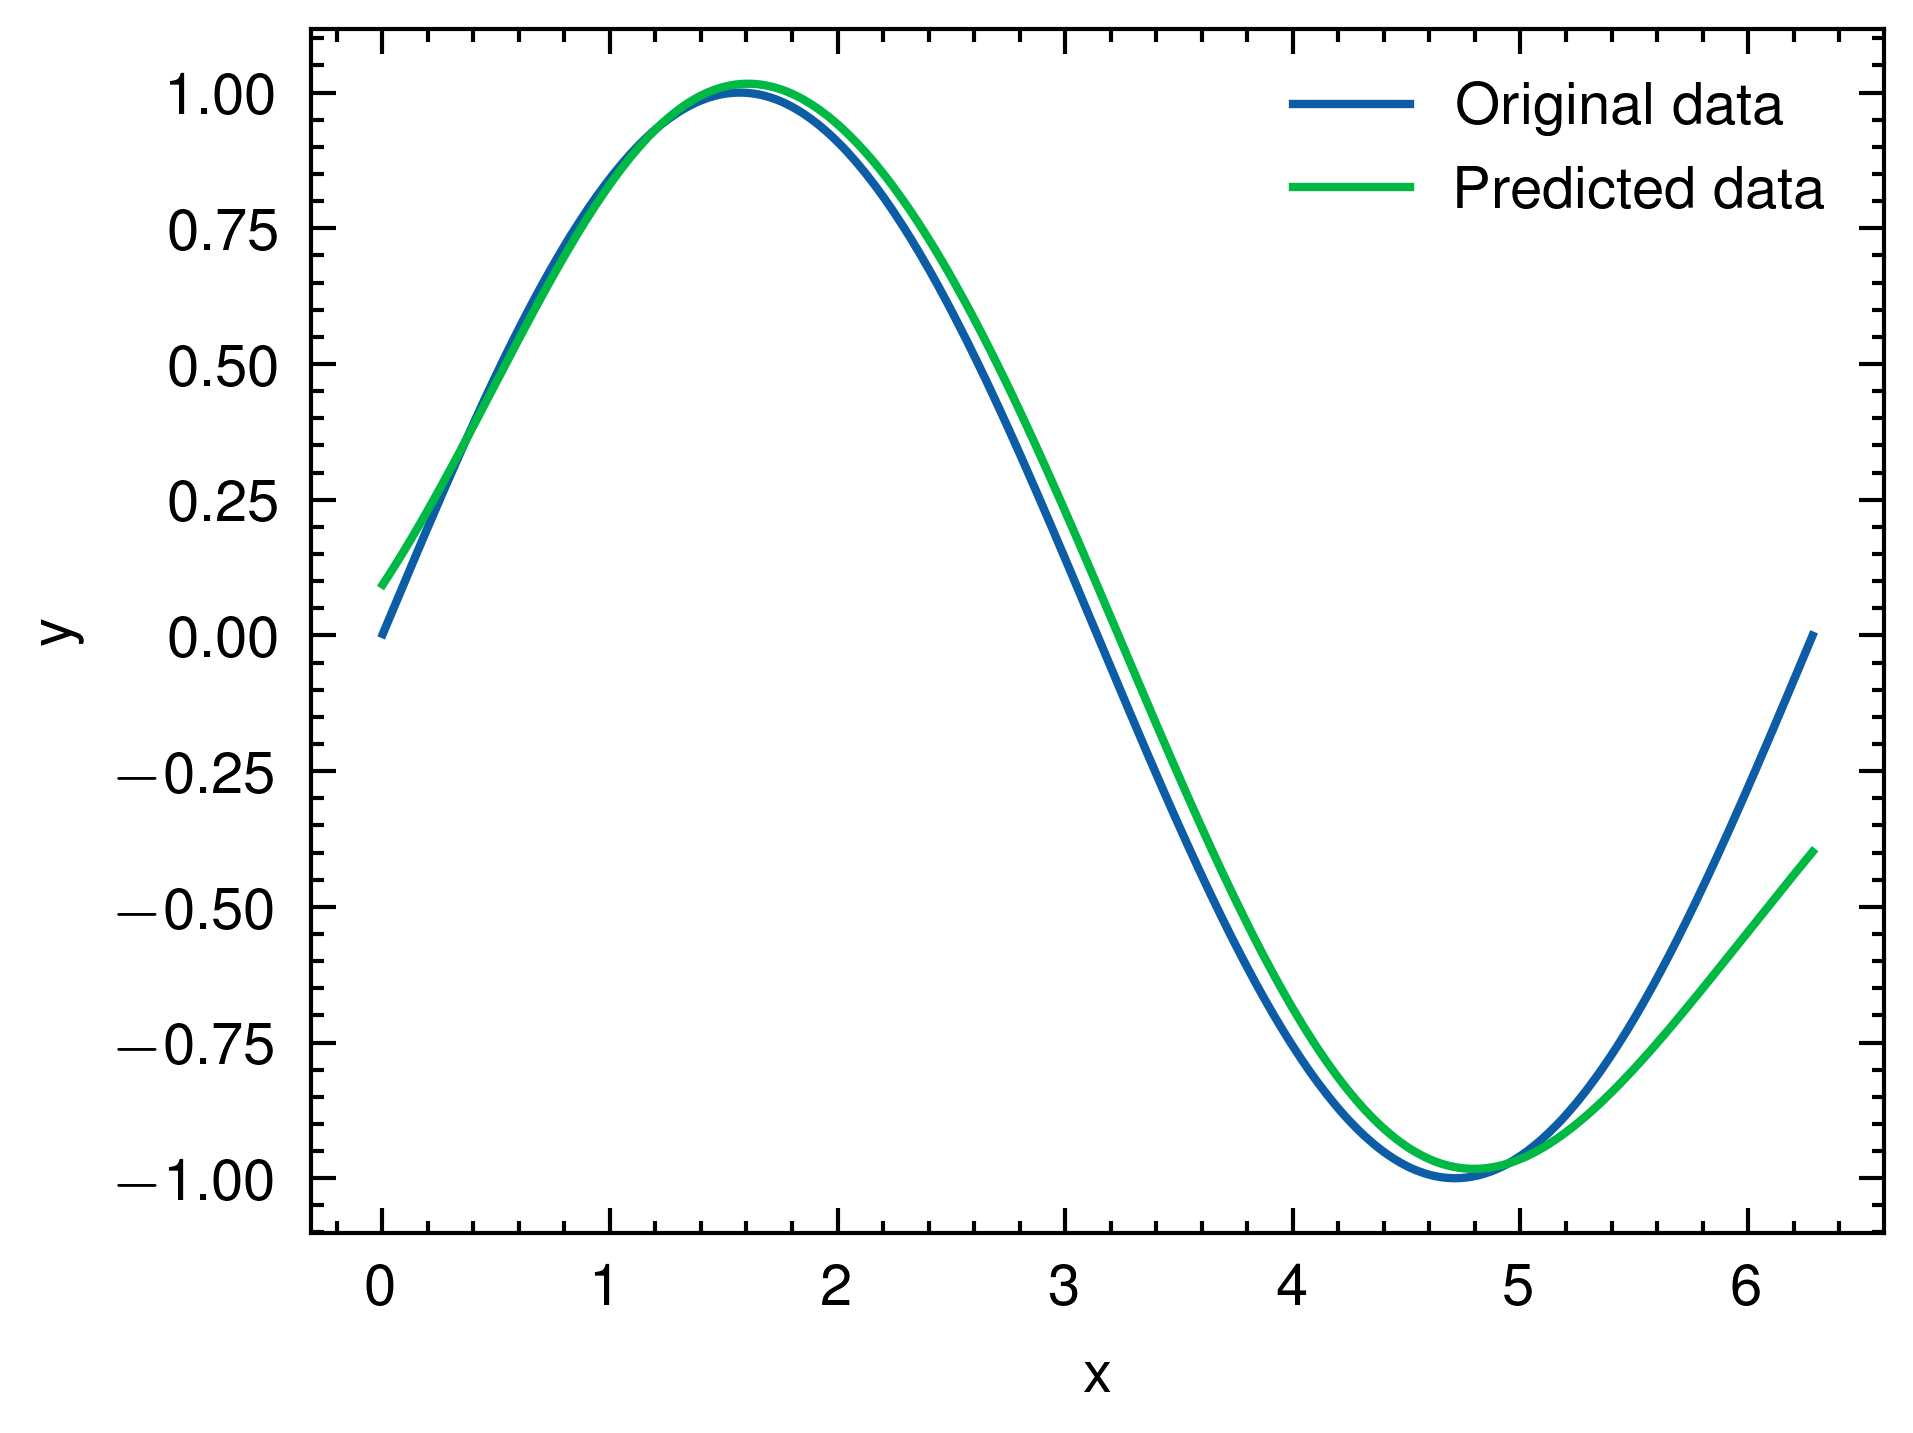
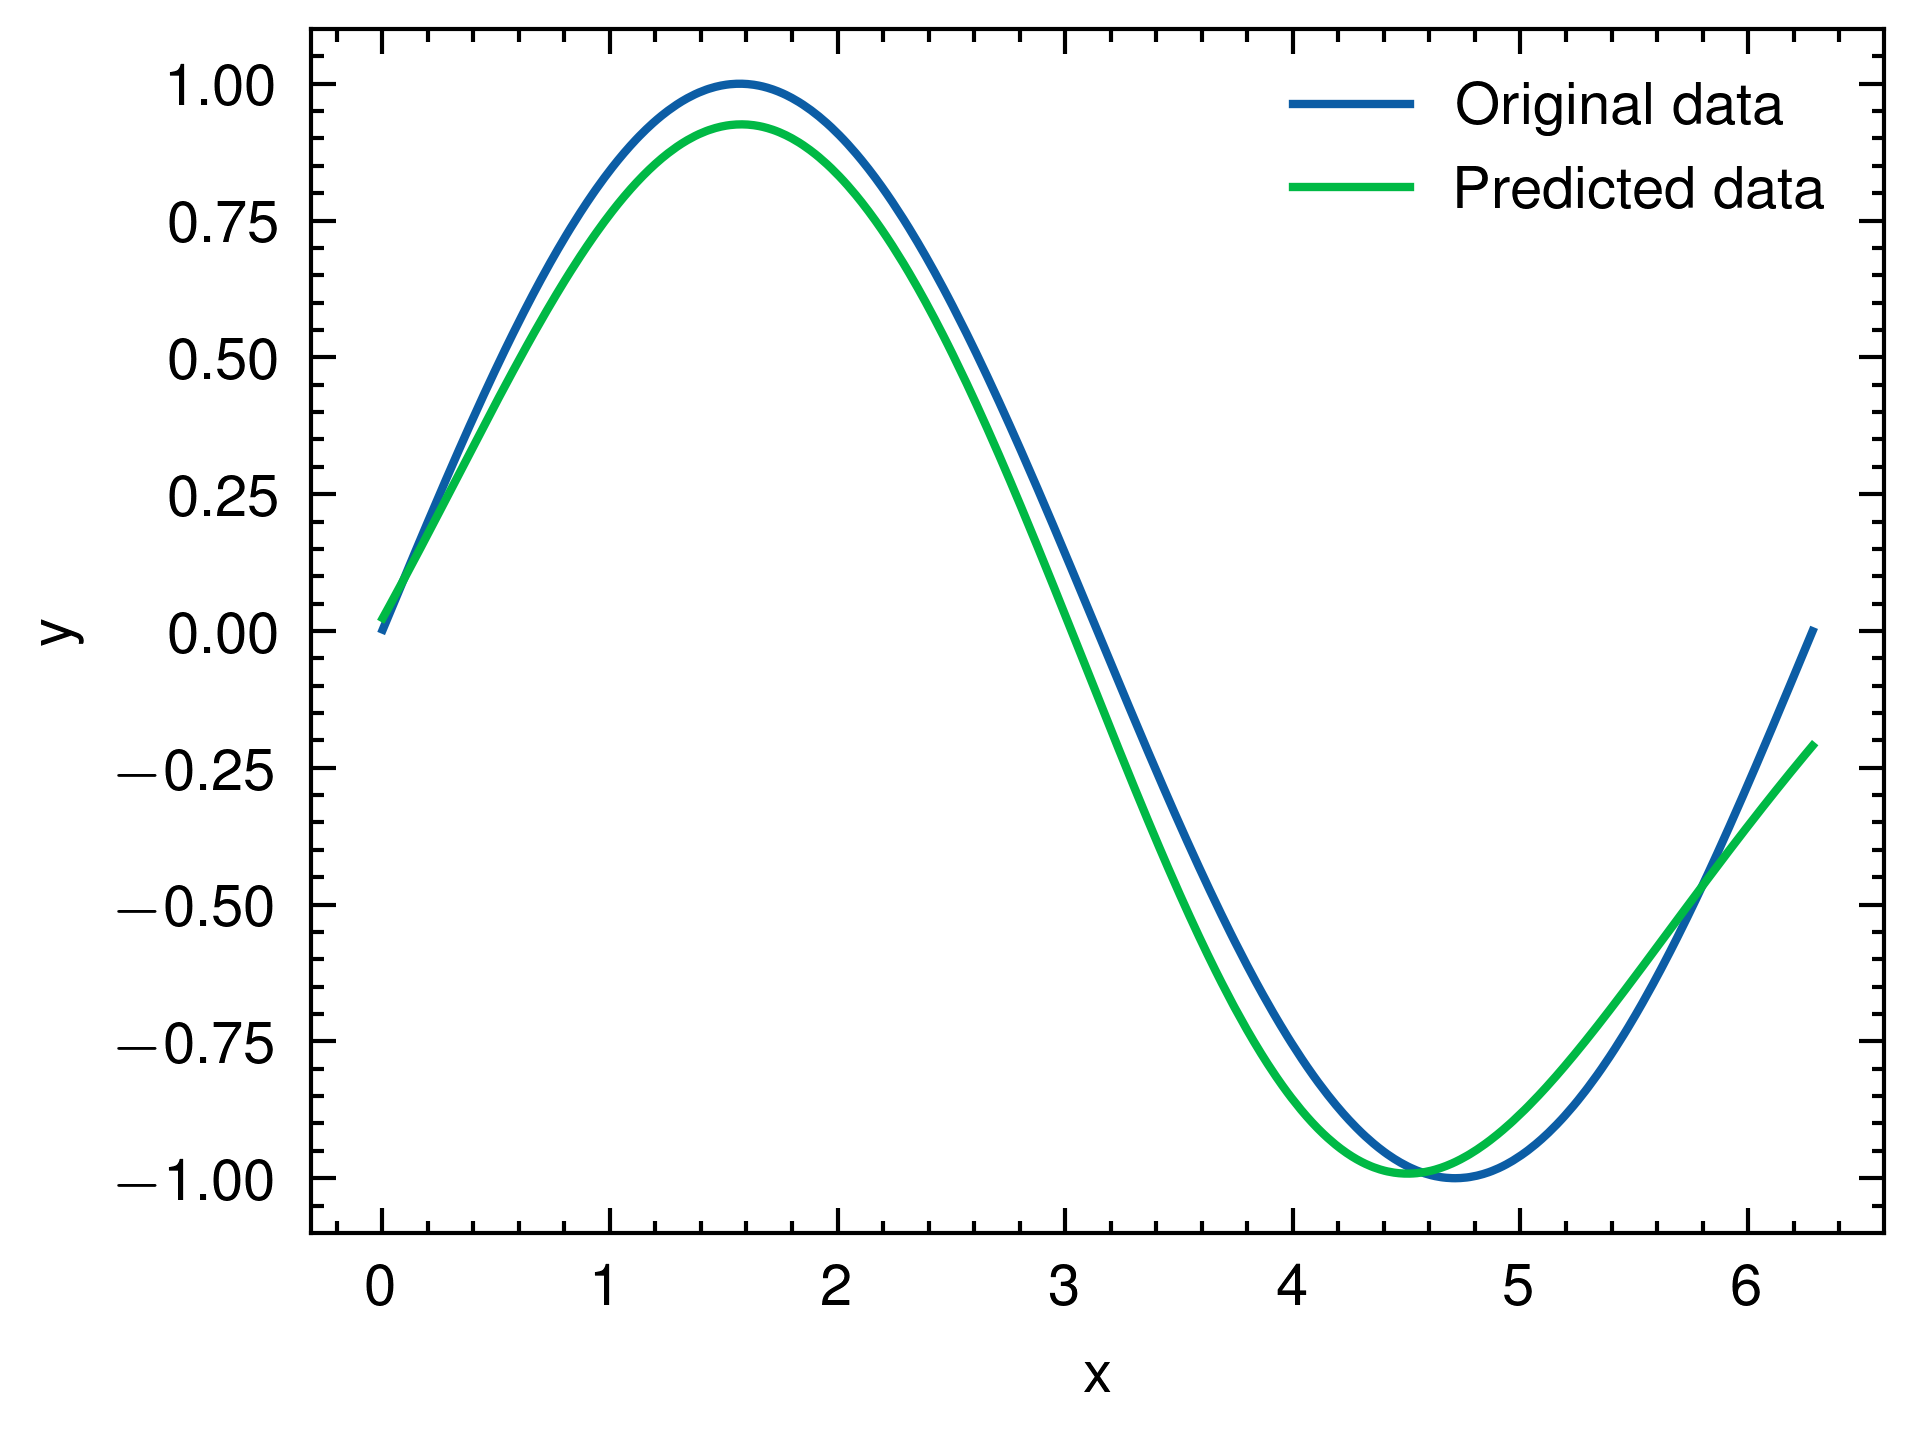
Equinox MLP completed

diff --git a/03_equinox.py b/03_equinox.py
@@ -12,15 +12,14 @@ class MLP(eqx.Module):
     layers: list
     extra_bias: Array
 
-    def __init__(self, in_size, hidden_size, out_size, key):
-        keys = random.split(key, 4)
+    def __init__(self, sizes, key):
+        keys = random.split(key, len(sizes)-1)
         layers = []
-        for key in keys[:-1]:
-            layers.append(eqx.nn.Linear(in_size, hidden_size, key=key))
-            in_size = hidden_size
-        layers.append(eqx.nn.Linear(in_size, out_size, key=keys[-1]))
+        for i, key in enumerate(keys[:-1]):
+            layers.append(eqx.nn.Linear(sizes[i], sizes[i + 1], key=key))
+        layers.append(eqx.nn.Linear(sizes[-2], sizes[-1], key=keys[-1]))
         self.layers = layers
-        self.extra_bias = jnp.ones(out_size)
+        self.extra_bias = jnp.ones(sizes[-1])
 
     def __call__(self, x):
         for layer in self.layers[:-1]:
@@ -34,11 +33,11 @@ def loss_fn(model, x, y):
     return jnp.mean((y - pred_y) ** 2)
 
 
-batch_size, in_size, out_size = 1000, 1, 1
-hidden_size = 16
+batch_size = 1000
+sizes = [1, 32, 32, 1]
 x_key, model_key = random.split(random.PRNGKey(0))
-model = MLP(in_size, hidden_size, out_size, model_key)
-x = random.uniform(x_key, (batch_size, in_size), minval=0.0, maxval=jnp.pi * 2)
+model = MLP(sizes, model_key)
+x = random.uniform(x_key, (batch_size, 1), minval=0.0, maxval=jnp.pi * 2)
 y = jnp.sin(x)
 
 print("Baseline: ", loss_fn(model, x, y))
